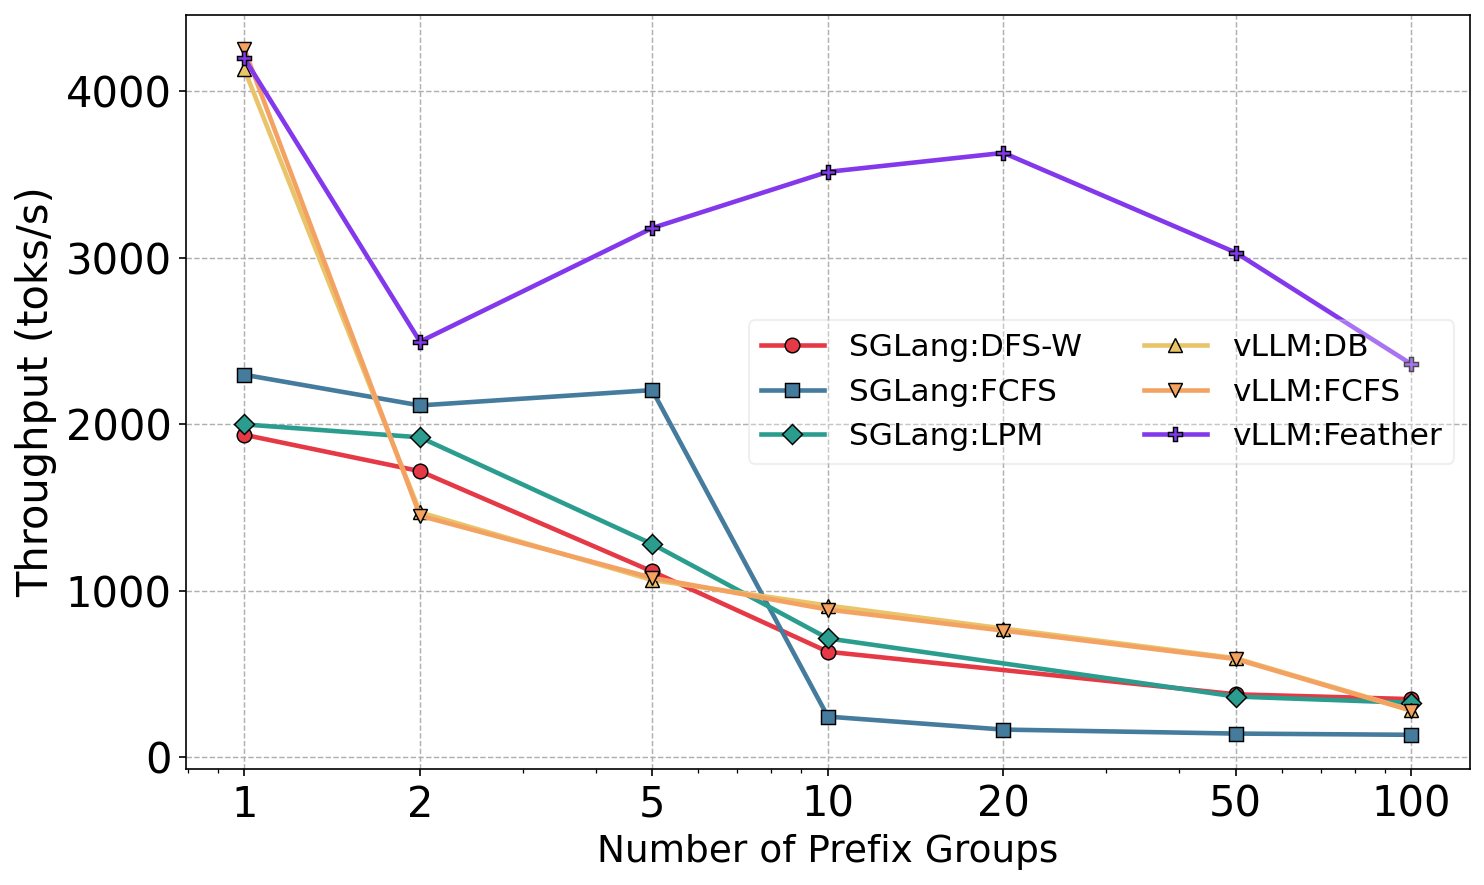
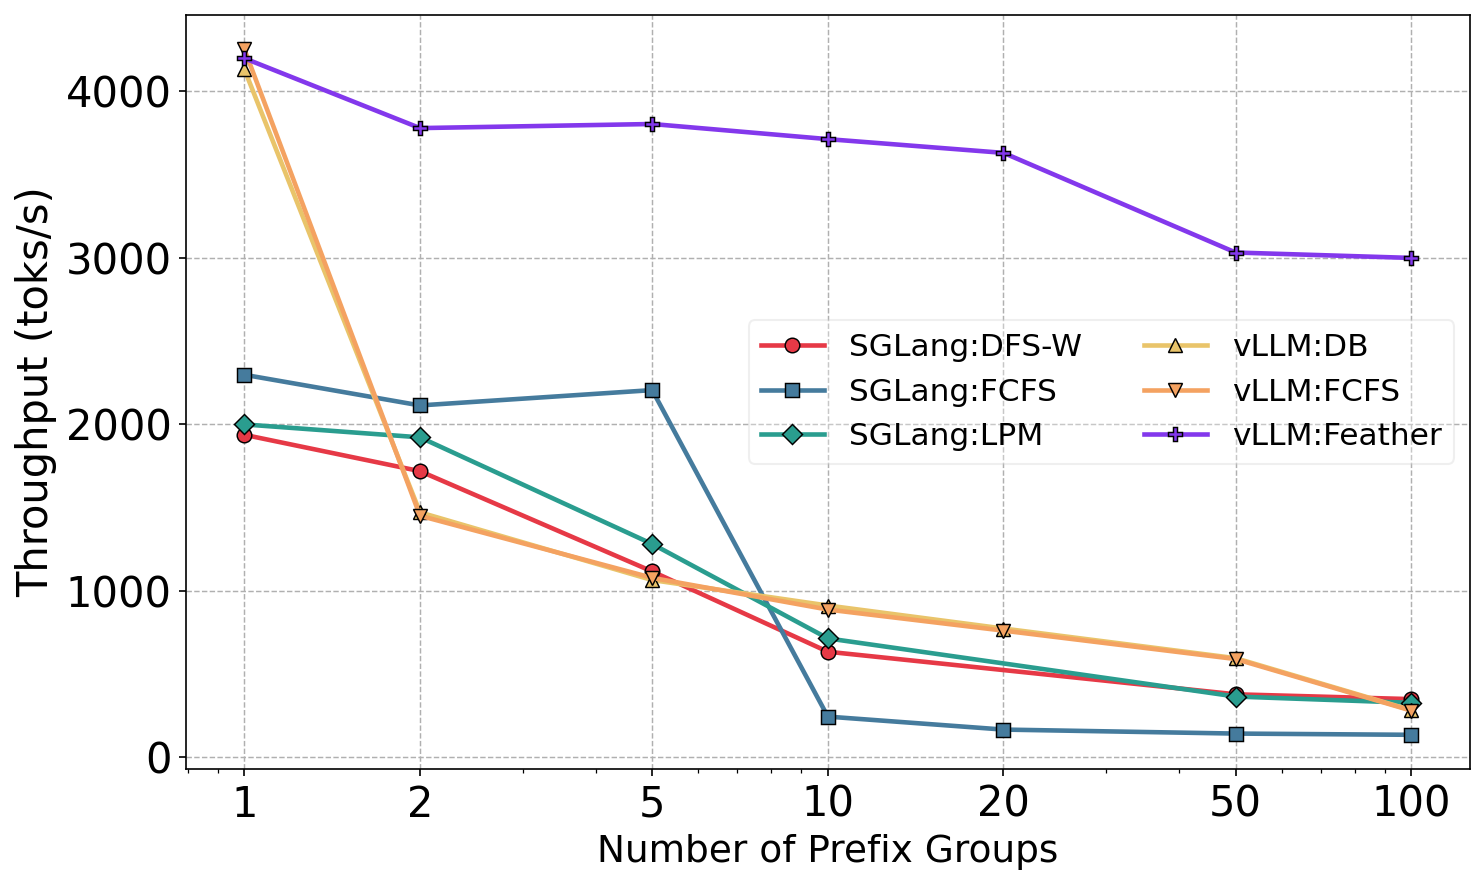
fam plots smoothed

diff --git a/code/vllm/families_logs/plot.py b/code/vllm/families_logs/plot.py
@@ -121,6 +121,12 @@ for path in log_files:
         f"dt={avg_diff}"
     )
 
+    if label in data and fam in data[label]:
+        existing_tput = data[label][fam].get("throughput") or 0
+        new_tput = throughput or 0
+        if new_tput <= existing_tput:
+            continue
+
     data[label][fam] = dict(
         throughput=throughput,
         avg_batch=avg_batch,
